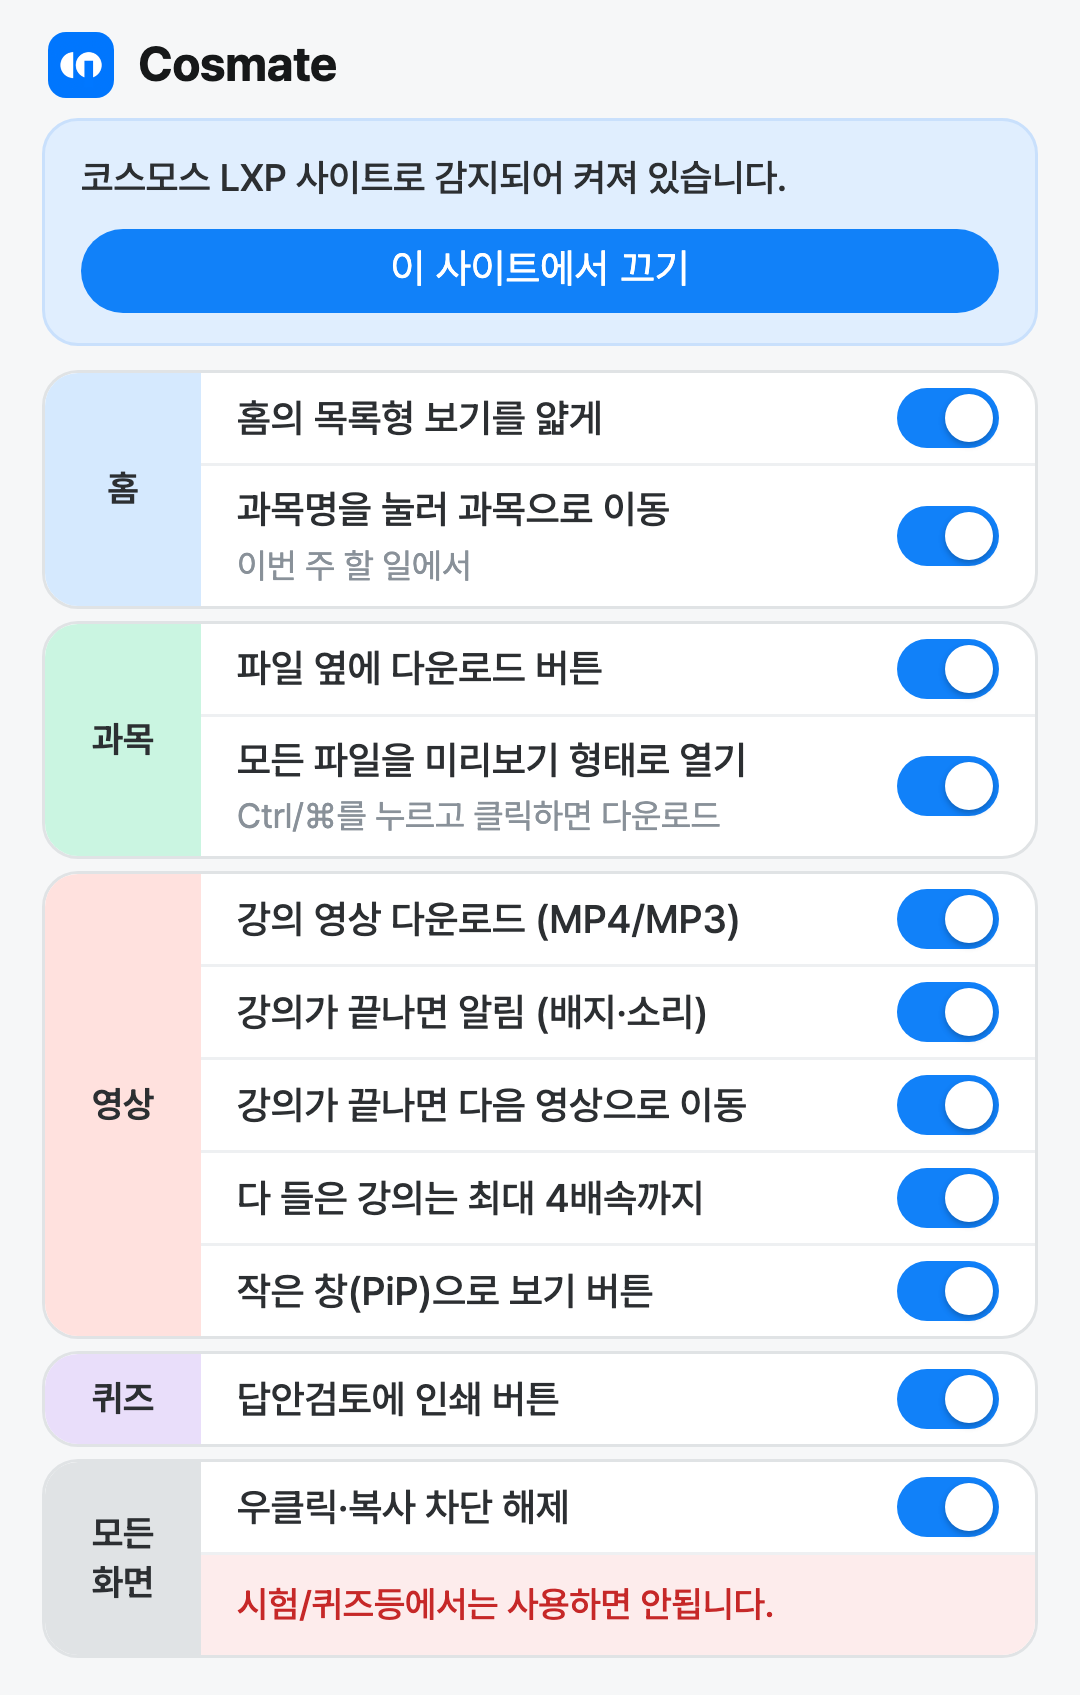
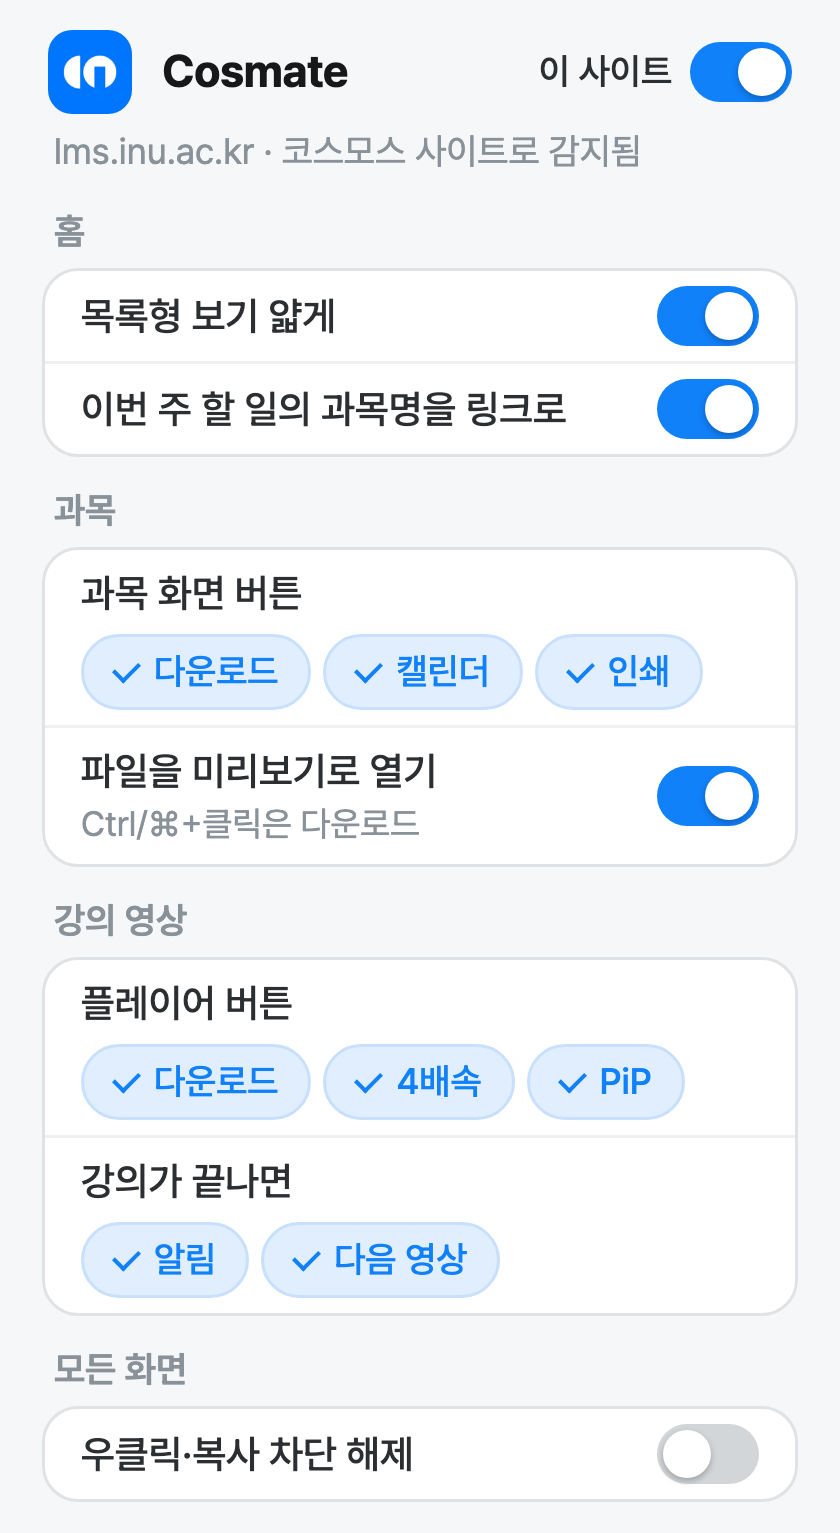
docs: refresh the popup screenshot

diff --git a/README.md b/README.md
@@ -11,7 +11,7 @@
 
 팝업에서 기능마다 켜고 끌 수 있습니다.
 
-<p align="center"><img src="docs/popup.png" width="360" alt="Cosmate 팝업 화면"></p>
+<p align="center"><img src="docs/popup.png" width="280" alt="Cosmate 팝업 화면"></p>
 
 **홈**
 - 홈의 목록형 보기를 얇게 표시
